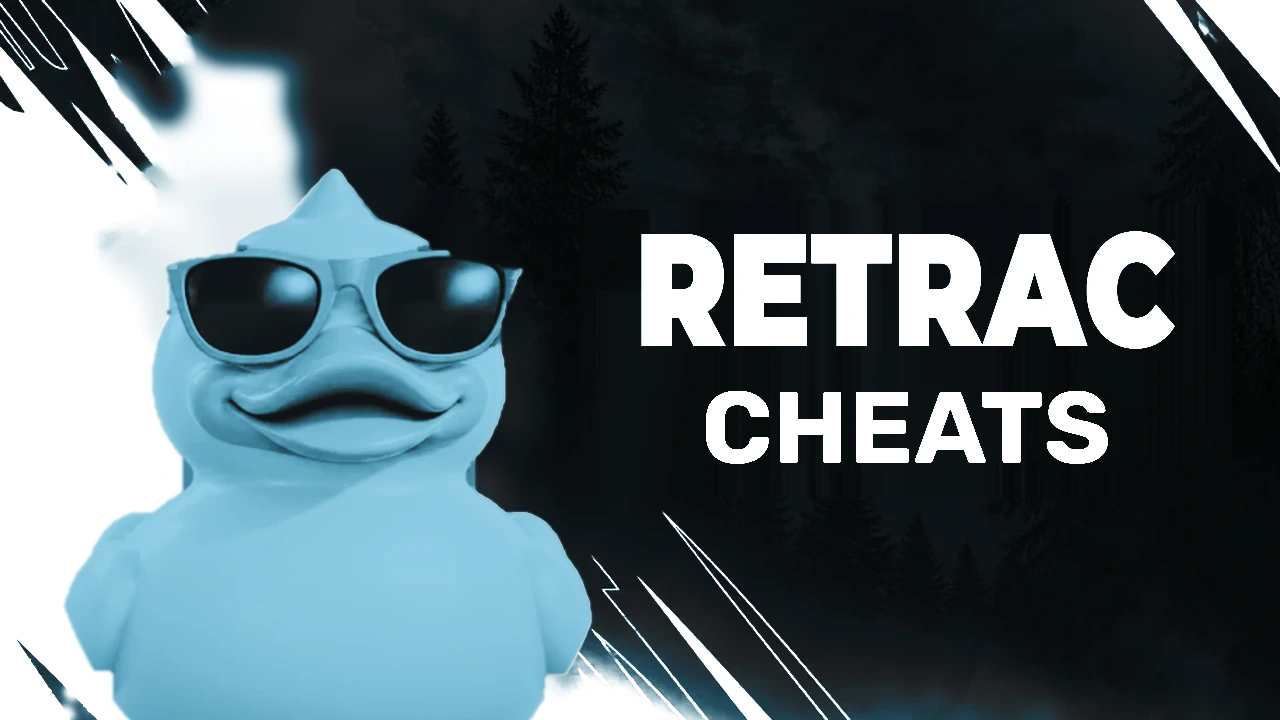
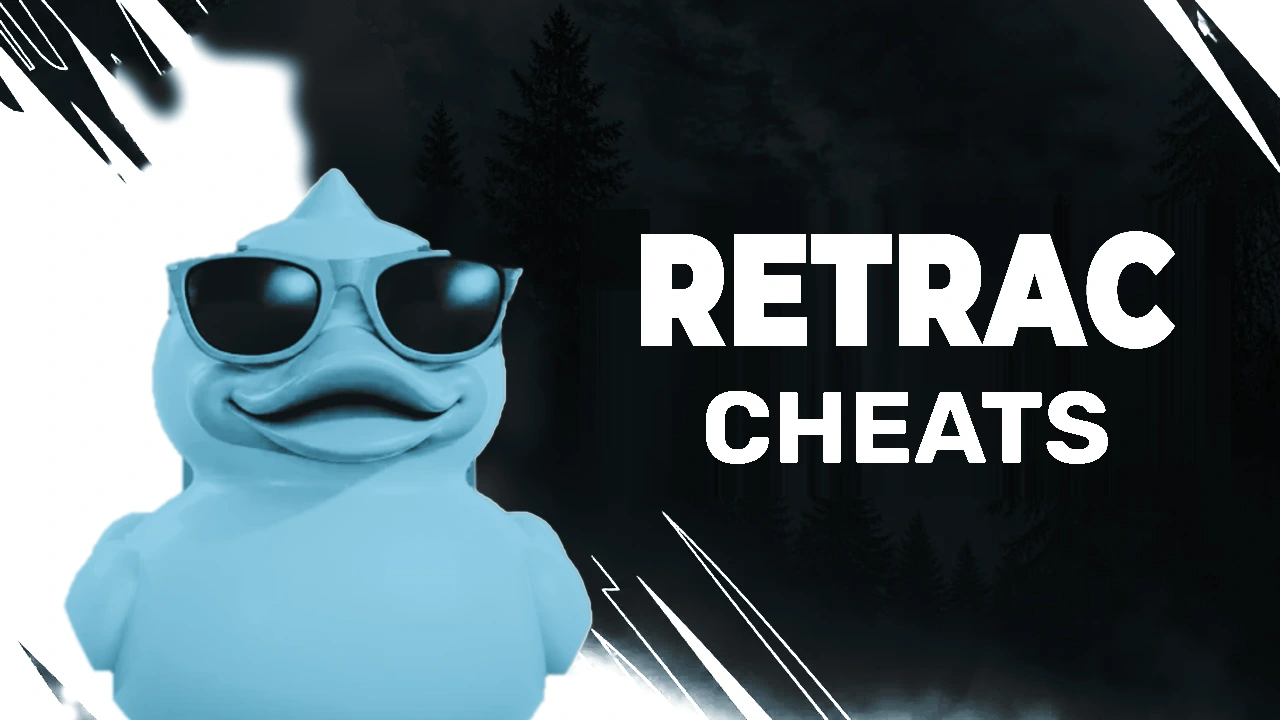
Cards cleaned up, game backgrounds on store categories
- card images: mid-grey mist now white too (no light-blue blotches), tighter character outline (no blue ring)
- store: picking a game (?category= or the Game filter) shows that game's scene behind the top
- game backgrounds a little darker and greyer

diff --git a/local/nx-layout.js b/local/nx-layout.js
@@ -155,7 +155,20 @@ ${promoHidden ? "" : `<div class="nx-promo" id="nxPromo">${esc(promo.text)} <cod
   // ---- /products: Fortnite AI Aim is the highlighted Fortnite pick ("Most Undetected") instead of Fortnite Private.
   // The page draws its grid itself (and again on every filter), so the badge is moved after each draw.
   if (seg === "products") {
+    // a game picked (?category=… or the Game filter): that game's scene behind the top, like the product pages
+    const CAT_BG = { "fortnite": "fortnite", "fortnite-accounts": "fortnite", "retrac": "fortnite", "rainbow-six-siege": "r6", "rust": "rust", "call-of-duty": "cod", "valorant": "valorant" };
+    let lastBg = null;
+    const catBg = () => {
+      const sel = document.getElementById("game"), key = CAT_BG[sel ? sel.value : (new URLSearchParams(location.search).get("category") || "")] || "";
+      if (key === lastBg) return; lastBg = key;
+      let el = document.querySelector(".nx-gamebg");
+      if (!key) { if (el) el.remove(); document.body.classList.remove("nx-has-gamebg"); return; }
+      if (!el) { document.body.insertAdjacentHTML("afterbegin", '<div class="nx-gamebg" aria-hidden="true"></div>'); el = document.querySelector(".nx-gamebg"); }
+      el.style.setProperty("--bg-img", `url('/local/cards/bg-${key}.webp')`);
+      document.body.classList.add("nx-has-gamebg");
+    };
     const fixRec = () => {
+      catBg();
       const grid = document.getElementById("grid"); if (!grid) return;
       grid.querySelectorAll('.ap-c[data-slug="fortnite-private"]').forEach(c => { c.classList.remove("rec"); const r = c.querySelector(".ap-rec"); if (r) r.remove(); });
       const star = (grid.querySelector(".ap-rec svg") || {}).outerHTML || "★";

diff --git a/local/nx-theme.css b/local/nx-theme.css
@@ -54,10 +54,10 @@ body.nx main.rv .rv-tabs button.on, body.nx main.rv .rv-cta a { background: var(
 /* ---------- product page (extra sections built in nx-layout.js) ---------- */
 /* game scene behind the top of the page: darkened, a touch of the site teal, fading into the page background */
 body.nx .nx-gamebg { position: absolute; left: 0; right: 0; top: 0; height: 760px; z-index: 0; pointer-events: none; overflow: hidden; }
-body.nx .nx-gamebg::before { content: ""; position: absolute; inset: 0; background: var(--bg-img) center 30% / cover no-repeat; filter: grayscale(.55) brightness(.42) contrast(1.05);
+body.nx .nx-gamebg::before { content: ""; position: absolute; inset: 0; background: var(--bg-img) center 30% / cover no-repeat; filter: grayscale(.75) brightness(.36) contrast(1.05);
   -webkit-mask-image: linear-gradient(180deg, #000 45%, transparent 100%); mask-image: linear-gradient(180deg, #000 45%, transparent 100%); }
 body.nx .nx-gamebg::after { content: ""; position: absolute; inset: 0; background: linear-gradient(180deg, rgba(18, 20, 24, .55), rgba(18, 20, 24, .2) 40%, var(--bg) 100%), radial-gradient(60% 80% at 50% 20%, rgba(var(--accent-rgb), .12), transparent 70%); }
-body.nx.nx-has-gamebg main.lwrap, body.nx.nx-has-gamebg .nx-top, body.nx.nx-has-gamebg .nx-promo { position: relative; z-index: 1; }
+body.nx.nx-has-gamebg main.lwrap, body.nx.nx-has-gamebg main.ap, body.nx.nx-has-gamebg .nx-top, body.nx.nx-has-gamebg .nx-promo { position: relative; z-index: 1; }
 body.nx.nx-has-gamebg .nx-top { background: transparent; }
 body.nx.nx-has-gamebg .nx-nav { z-index: 50; }
 body.nx main.lwrap { padding-top: 34px !important; }
